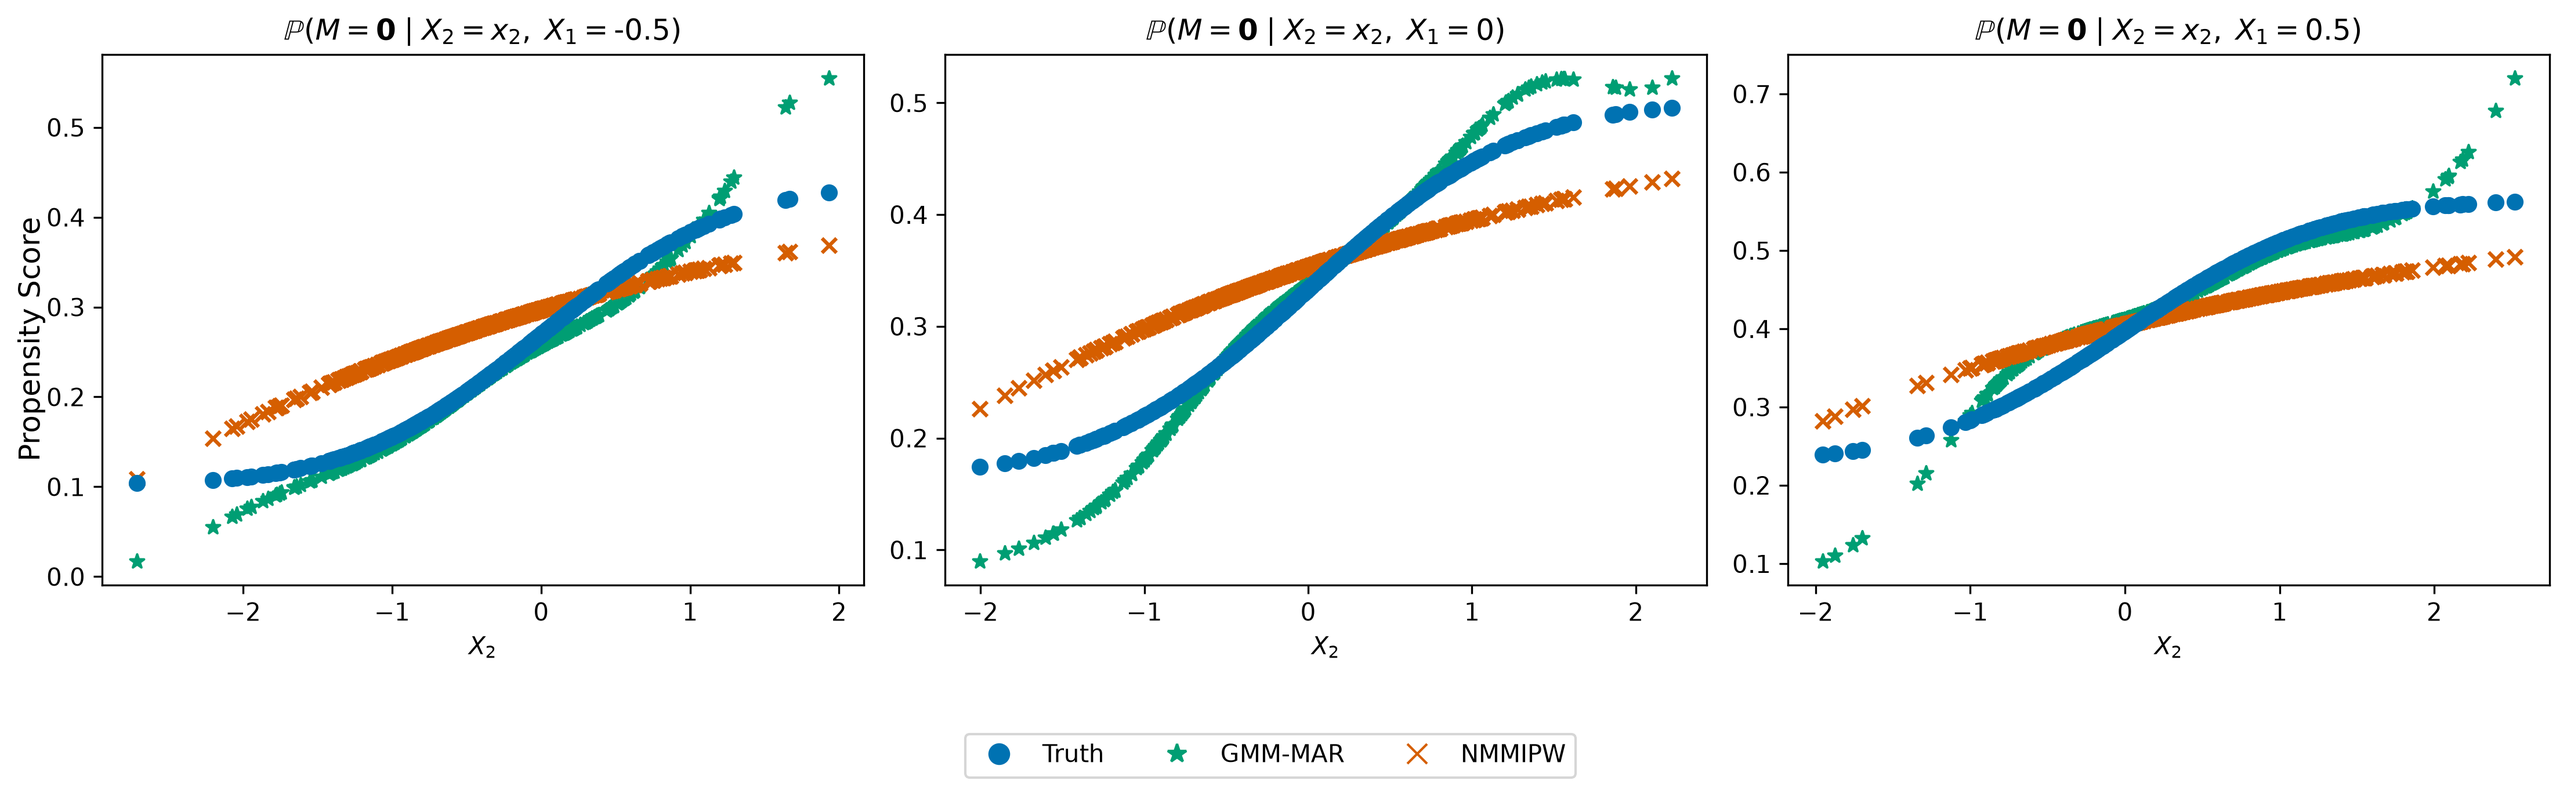
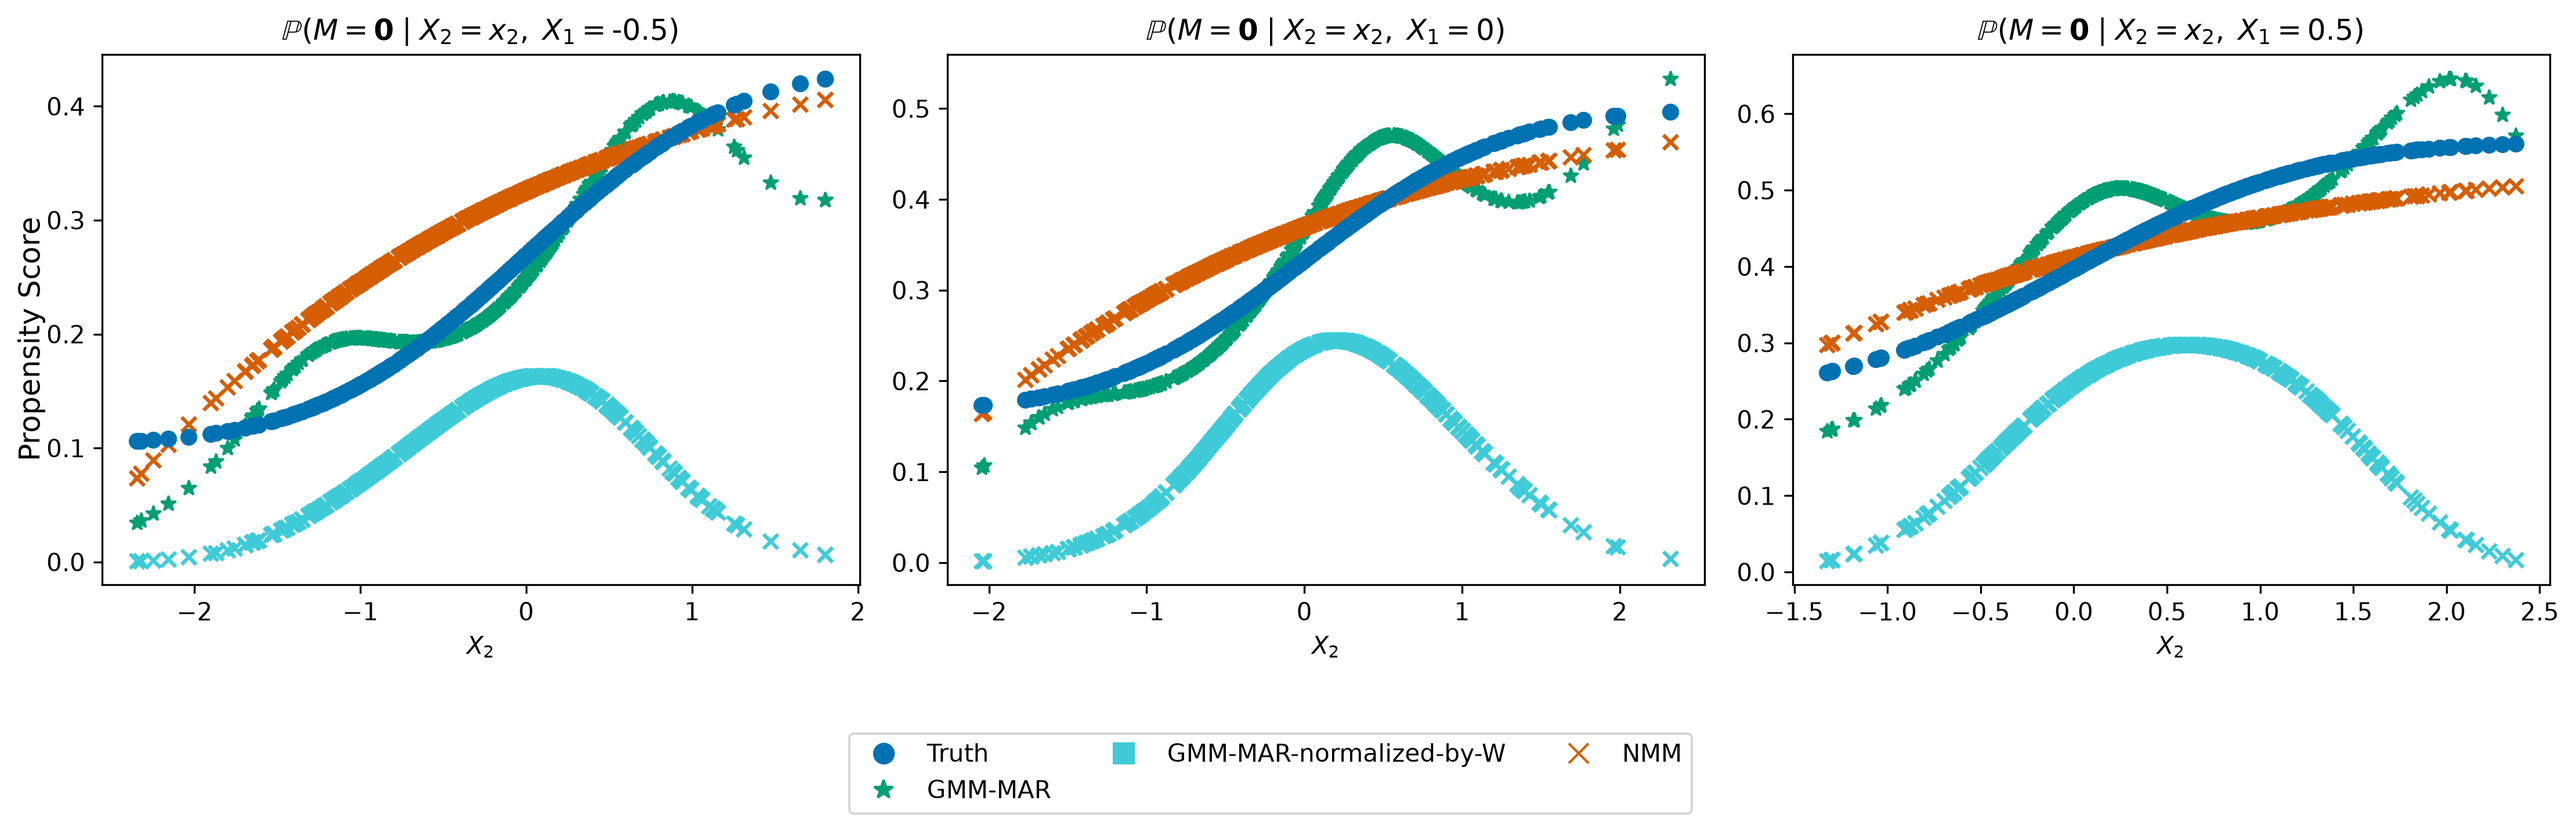
ps normalized by W

diff --git a/src/propensity_score_estimator.py b/src/propensity_score_estimator.py
@@ -179,3 +179,20 @@ class MotivatingExamplePSE(MotivatingExample, PropensityScoreEstimator):
         X1 = Xtest[:,0]
         X2 = Xtest[:,1]
         return (norm.cdf(X1) + norm.cdf(X2)) / 3
+
+
+    def estimate_propensity_score_gmm_mar(self, Xtest):
+        """
+        Normalize by W=1
+        """
+        m = torch.ones(self.d, device=self.device)
+        raw_score = self._estimate(Xtest, m)
+        
+        m1 = m.clone()
+        m2 = m.clone()
+        m1[0] = 0
+        m2[1] = 0
+        
+        W = raw_score + self._estimate(Xtest, m1) + self._estimate(Xtest, m2)
+        
+        return raw_score / W
